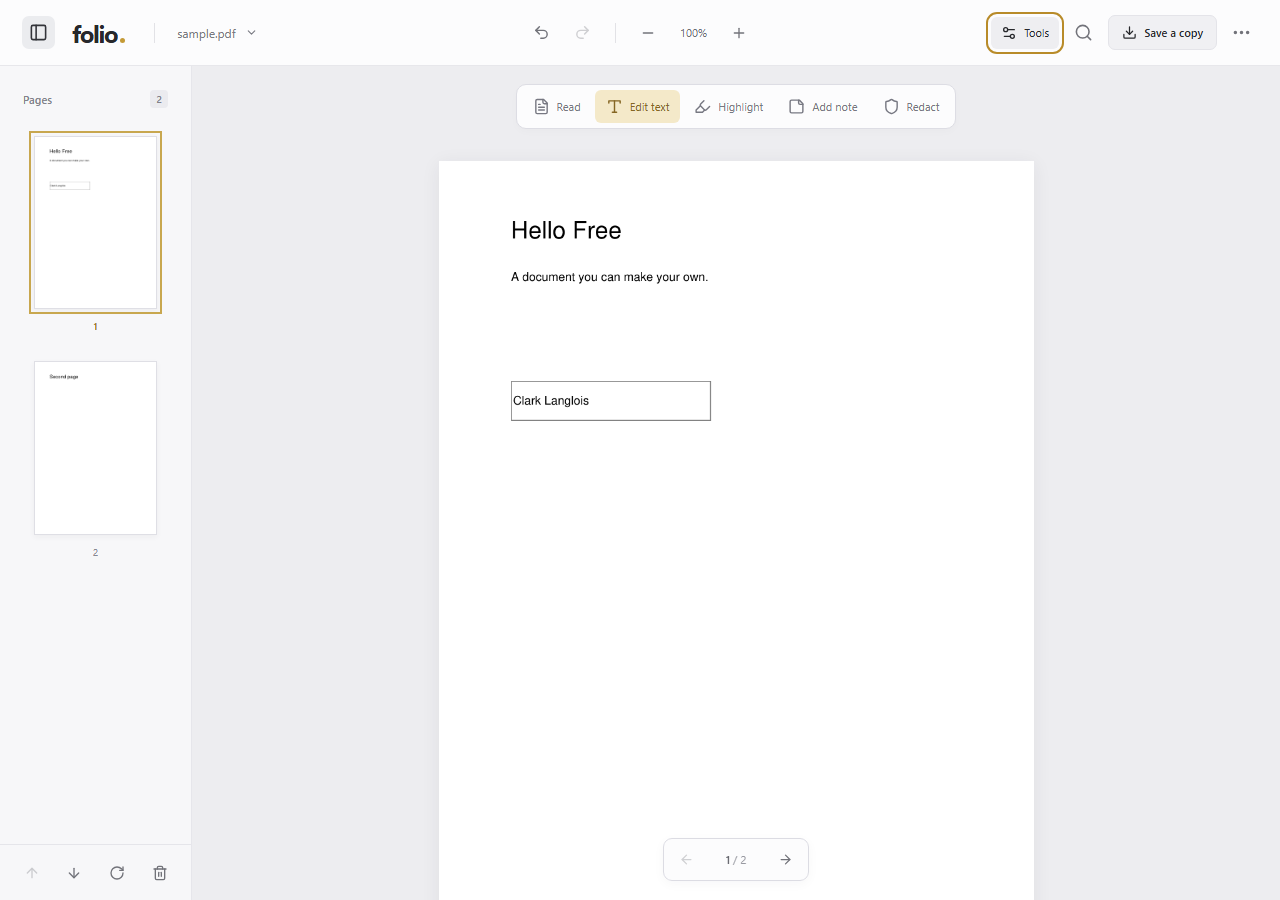
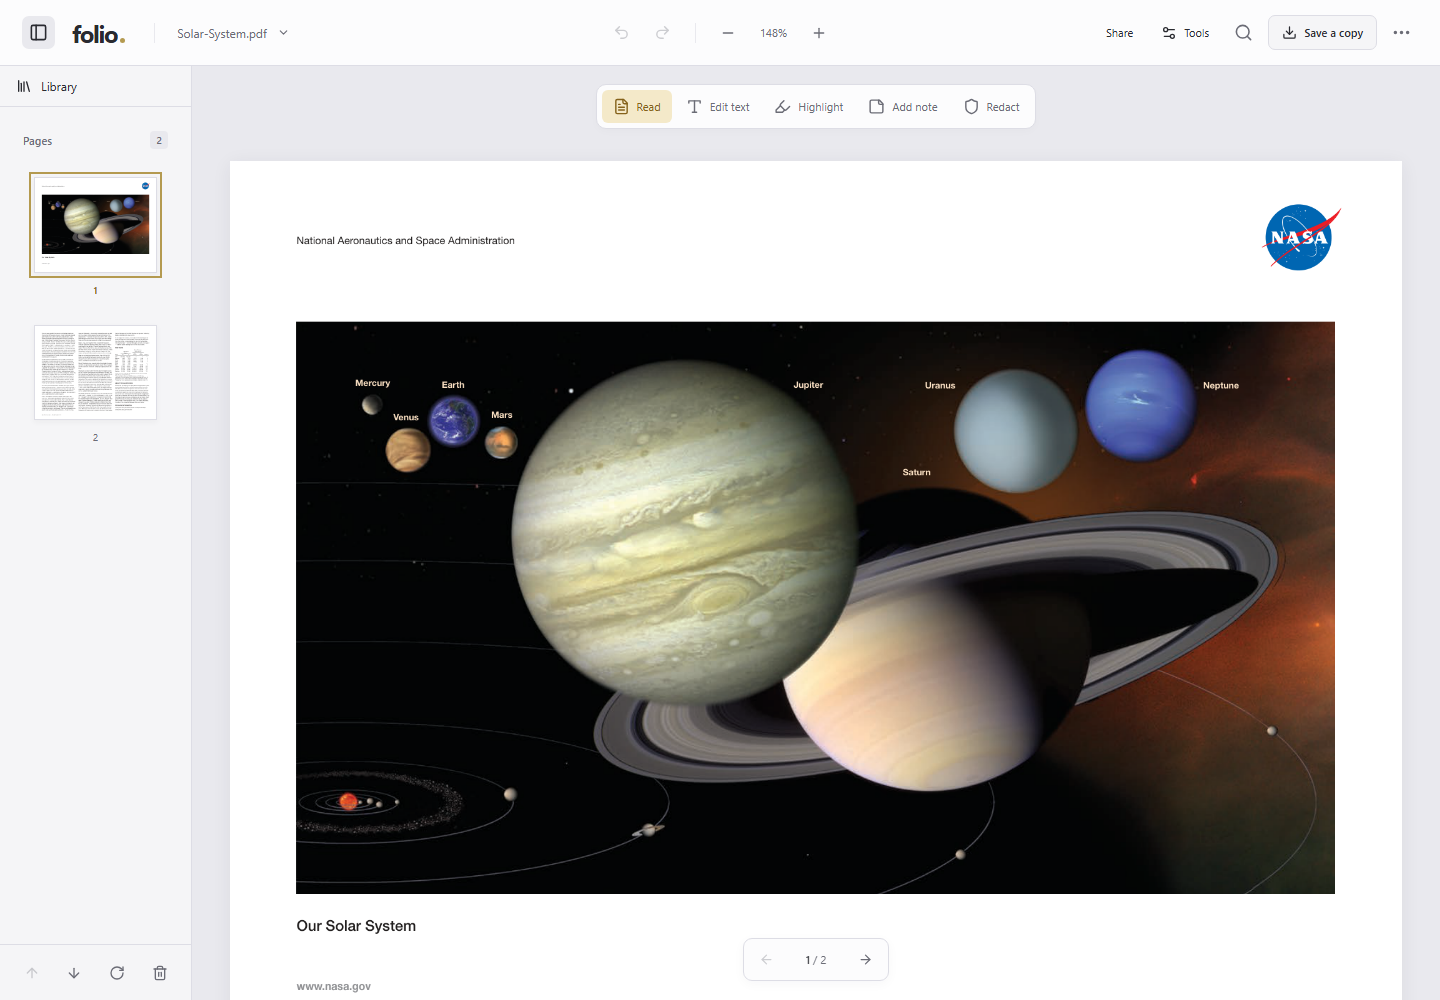
Replace sample screenshots with NASA PDF and remove personal-name footer

diff --git a/website/index.html b/website/index.html
@@ -14,11 +14,11 @@
 <header><a href="#" class="brand" aria-label="Folio home">folio<span>.</span></a><nav aria-label="Main"><a href="https://github.com/clark719664/Folio">Source</a><a href="https://cash.app/$ClarkLangloisII">Donate</a><button class="theme" aria-label="Switch to dark mode" title="Change theme"><svg viewBox="0 0 24 24" fill="none" stroke="currentColor" stroke-width="1.6"><path d="M20 15.2A8.5 8.5 0 0 1 8.8 4a8.5 8.5 0 1 0 11.2 11.2Z"/></svg></button></nav></header>
 <main>
 <section class="hero" aria-labelledby="headline"><div class="hero-top"><h1 id="headline">Make the<br>PDF yours.</h1><div class="intro"><p>A quiet place to read, edit, and organize your PDFs.<br>Free. Open source. Yours.</p><a class="download" href="https://github.com/clark719664/Folio/releases/download/v0.1.0/Folio-0.1.0-Windows-x64.zip">Download for Windows <svg viewBox="0 0 24 24" fill="none" stroke="currentColor" stroke-width="1.6" aria-hidden="true"><path d="M12 3v12m-5-5 5 5 5-5M5 16v5h14v-5"/></svg></a><small class="version">Windows 10 / 11 · 61 MB · v0.1.0 preview</small></div></div>
-<div class="showcase"><div class="tabs" role="tablist" aria-label="App screenshots"><button id="edit-tab" role="tab" aria-selected="true" aria-controls="preview" data-image="editor.png" data-alt="Folio editing existing text in a two-page PDF">Edit</button><button id="tools-tab" role="tab" aria-selected="false" aria-controls="preview" tabindex="-1" data-image="tools.png" data-alt="Folio document tools">Organize</button><button id="convert-tab" role="tab" aria-selected="false" aria-controls="preview" tabindex="-1" data-image="conversion.png" data-alt="Folio file conversion in dark mode">Convert</button></div><div id="preview" role="tabpanel" aria-labelledby="edit-tab"><img class="screen" src="editor.png" width="1440" height="1012" alt="Folio editing existing text in a two-page PDF" fetchpriority="high"></div></div><p class="caption">Actual app screenshots</p></section>
+<div class="showcase"><div class="tabs" role="tablist" aria-label="App screenshots"><button id="edit-tab" role="tab" aria-selected="true" aria-controls="preview" data-image="editor.png" data-alt="NASA Solar System PDF open in Folio">Read</button><button id="tools-tab" role="tab" aria-selected="false" aria-controls="preview" tabindex="-1" data-image="tools.png" data-alt="Folio document tools">Organize</button><button id="convert-tab" role="tab" aria-selected="false" aria-controls="preview" tabindex="-1" data-image="conversion.png" data-alt="NASA Solar System PDF in Folio dark mode">Dark mode</button></div><div id="preview" role="tabpanel" aria-labelledby="edit-tab"><img class="screen" src="editor.png" width="1440" height="1012" alt="NASA Solar System PDF open in Folio" fetchpriority="high"></div></div><p class="caption">Actual app screenshots · <a href="https://www.nasa.gov/stem-content/our-solar-system-lithograph/">PDF: NASA</a></p></section>
 <section class="details" aria-labelledby="features"><div><h2 id="features">Your document.<br>Your workspace.</h2><p>Keep your attention on the page. Tools appear when you need them. Your files stay on your computer in the desktop app.</p></div><div class="features"><div class="feature"><strong>Edit</strong><span>Change existing text. Highlight, annotate, sign, and fill forms.</span></div><div class="feature"><strong>Organize</strong><span>Merge, split, rotate, and reorder pages. Keep revisions in your library.</span></div><div class="feature"><strong>Convert</strong><span>Turn images and text into PDFs. Add free LibreOffice for Office files.</span></div><div class="feature"><strong>Settle in</strong><span>Light and dark modes. A focused reading view. No subscription.</span></div></div></section>
 <section class="closing"><div><h2>Free to use. Free to improve.</h2><p>Folio is open source under AGPL-3.0. <a href="https://github.com/clark719664/Folio">Explore the code</a>, report an issue, or help make it better.</p></div><a class="download" href="https://github.com/clark719664/Folio/releases/tag/v0.1.0">Get Folio</a></section>
 <p class="status">Windows preview. Extract the entire ZIP, then open Folio.exe. The app is unsigned. Office conversion needs LibreOffice; OCR needs Tesseract. Online editing is not hosted yet. Collaboration requires a shared server. <a href="https://github.com/clark719664/Folio#readme">Setup and limitations</a>.</p>
-</main><footer><span>Folio by Clark Langlois</span><div><a href="https://github.com/clark719664/Folio/issues">Report an issue</a><a href="https://cash.app/$ClarkLangloisII">Support Folio</a></div></footer>
+</main><footer><span>Folio · AGPL-3.0</span><div><a href="https://github.com/clark719664/Folio/issues">Report an issue</a><a href="https://cash.app/$ClarkLangloisII">Support Folio</a></div></footer>
 <script>
 const themeButton=document.querySelector('.theme');
 let saved;try{saved=localStorage.getItem('folio-site-theme')}catch{}
